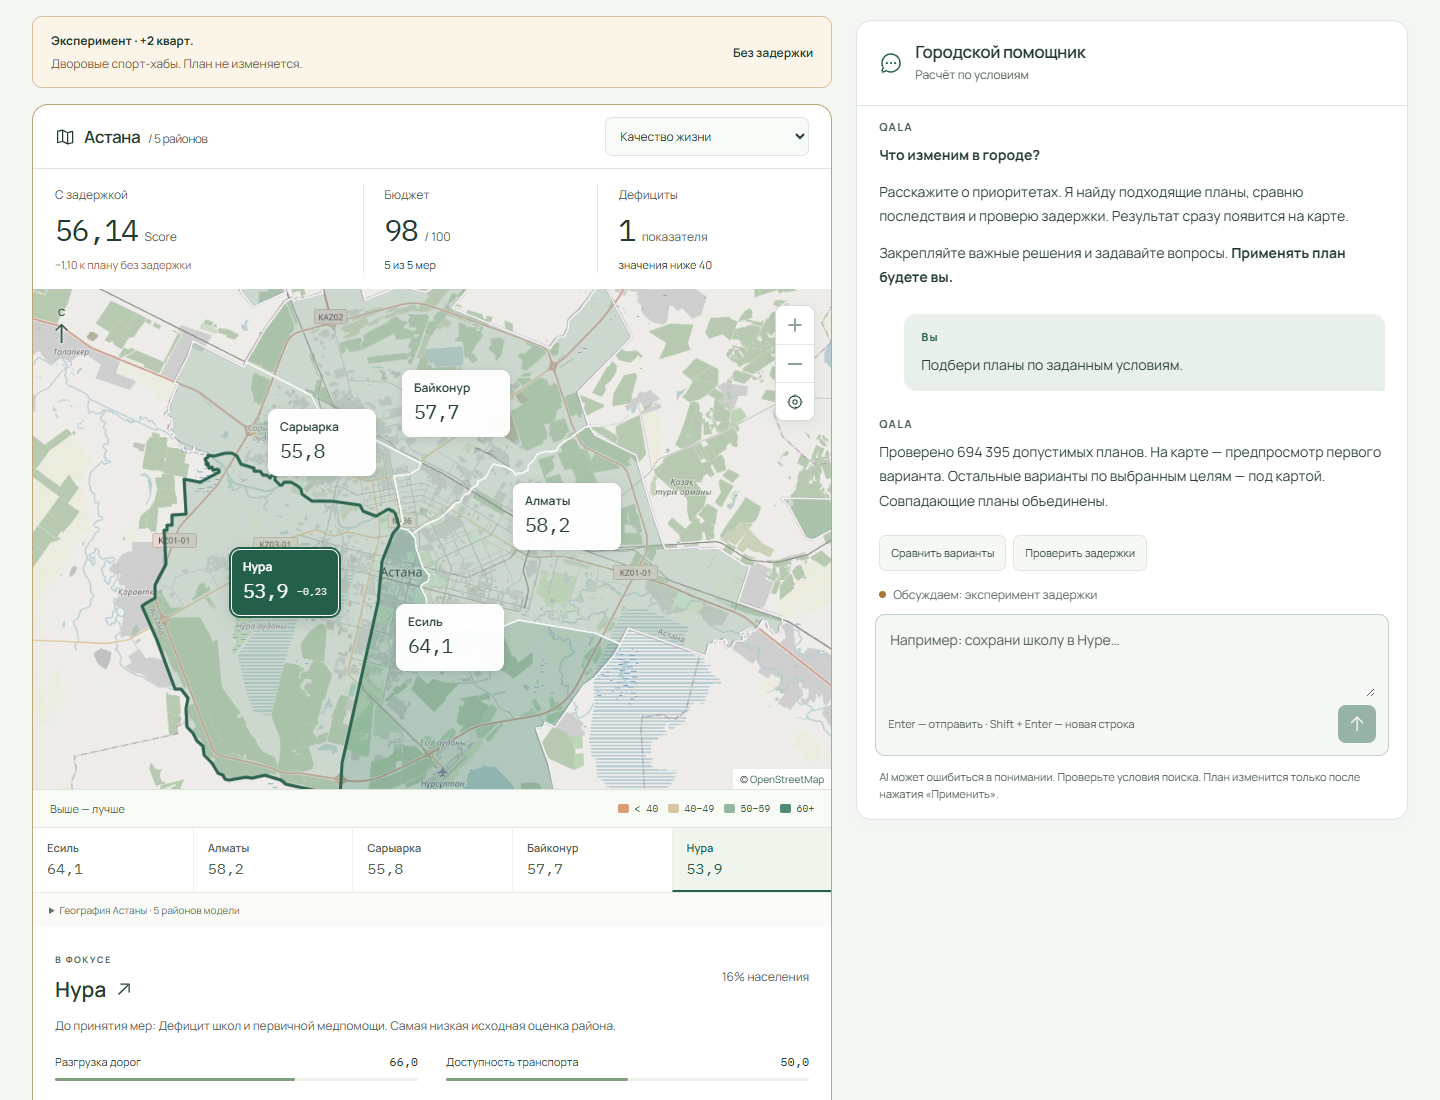
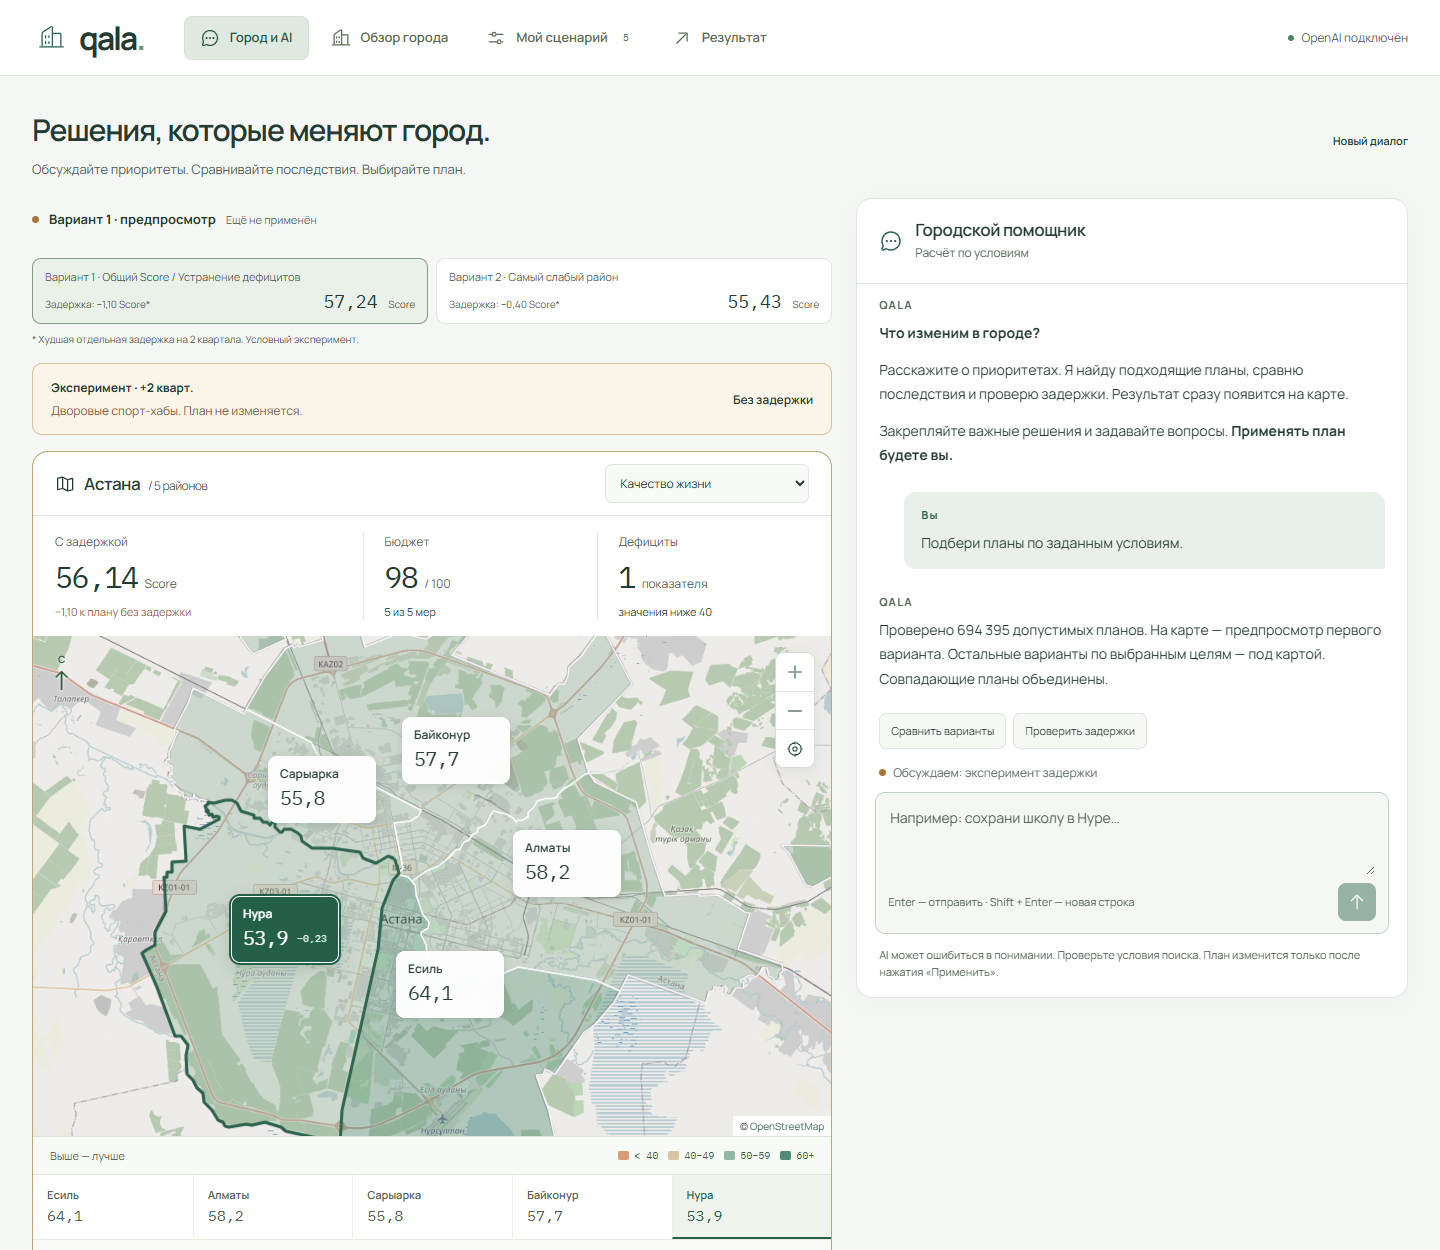
docs: present QALA value and reproducible jury walkthrough

diff --git a/docs/DEMO.md b/docs/DEMO.md
@@ -41,4 +41,6 @@ npm run dev
 
 Автоматическая проверка этих утверждений находится в `src/lib/demo.test.ts`. Поиск не делает вызовов OpenAI и перебирает все допустимые наборы, а не выборку или эвристическую подборку.
 
-![Эксперимент: задержка поликлиники на три квартала возвращает медицинский дефицит](screenshots/delay.png)
+На скриншоте ниже — отдельный эксперимент с найденным планом: задержка дворовых спорт-хабов на два квартала снижает Score с 57,24 до 56,14. Контрольный пример поликлиники из шагов выше даёт 55,30514.
+
+![Эксперимент: задержка спорт-хабов на два квартала, Score 56,14](screenshots/delay.png)
